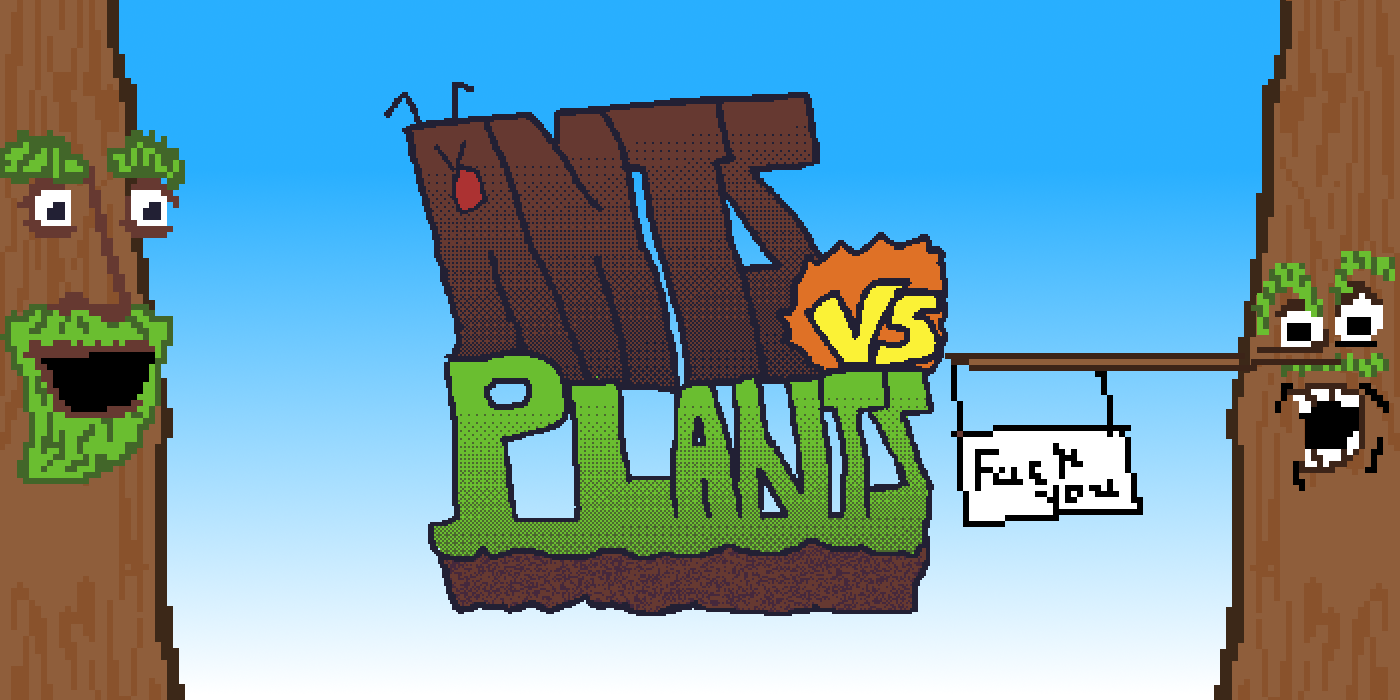
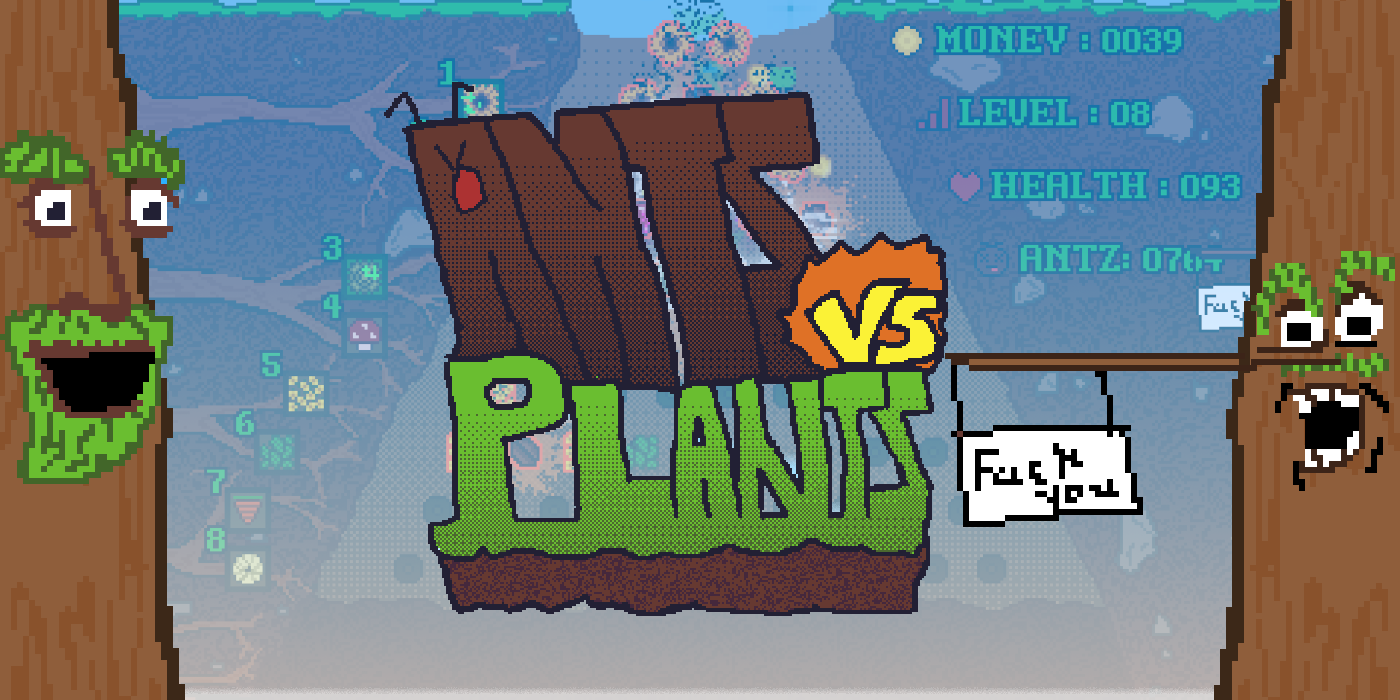
new thumbnails

diff --git a/collections/_posts/2025-05-01-Title.md b/collections/_posts/2025-05-01-Title.md
@@ -5,8 +5,8 @@ description: Monthly Check-in for April 2025 (Month 61)
 date: 2025-05-01T12:00:00Z
 categories: [Monthly Check-in]
 tags: [trash force, pixel fixel, charles the bee, ludum dare, game jam]
-thumbnail: /assets/images/posts/mar2025.png
-image: /assets/images/posts/mar2025.png
+thumbnail: /assets/images/posts/april2025.png
+image: /assets/images/posts/april2025.png
 published : true
 ---
 
